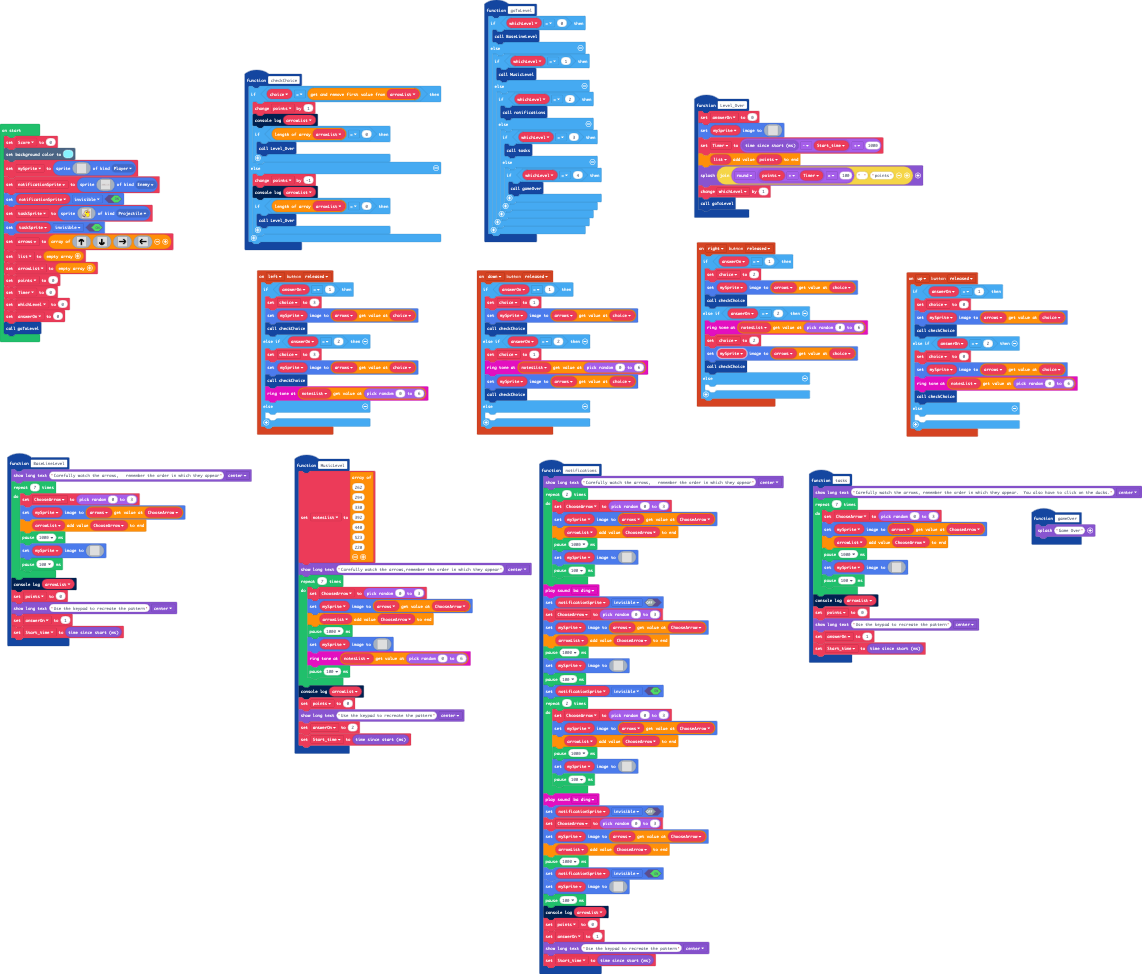
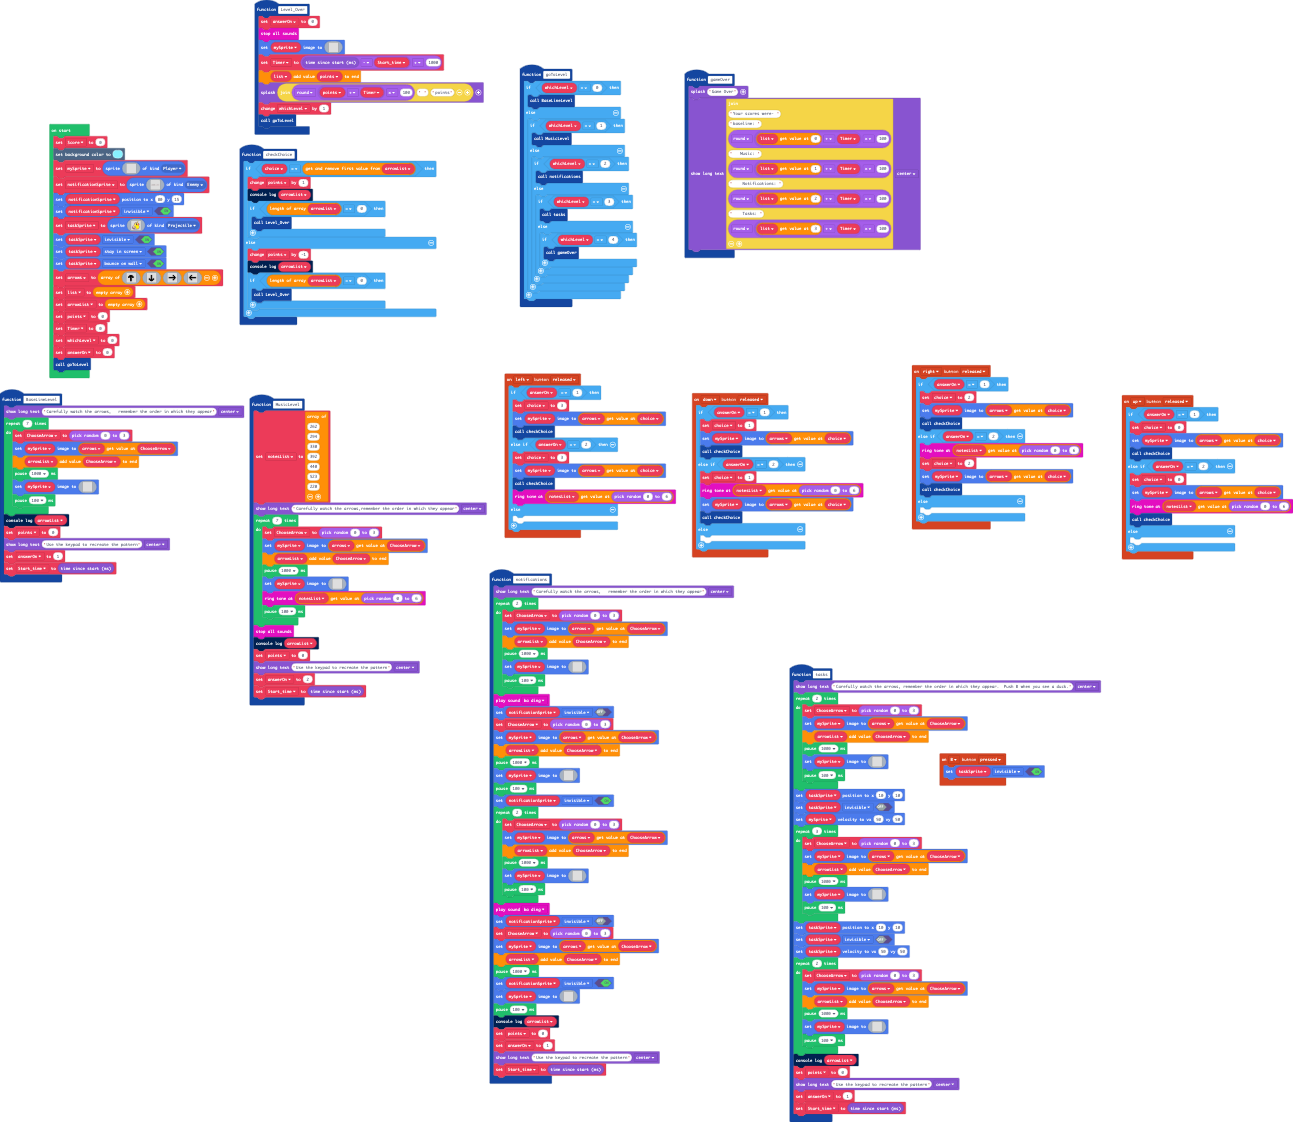
maybe done

diff --git a/main.ts b/main.ts
@@ -27,6 +27,9 @@ function checkChoice () {
         }
     }
 }
+controller.B.onEvent(ControllerButtonEvent.Pressed, function () {
+    taskSprite.setFlag(SpriteFlag.Invisible, true)
+})
 controller.left.onEvent(ControllerButtonEvent.Released, function () {
     if (answerOn == 1) {
         choice = 3
@@ -57,6 +60,7 @@ controller.down.onEvent(ControllerButtonEvent.Released, function () {
 })
 function Level_Over () {
     answerOn = 0
+    music.stopAllSounds()
     mySprite.setImage(img`
 . . . . . . . . . . . . . . . . 
 . . . . . . . . . . . . . . . . 
@@ -83,6 +87,7 @@ function Level_Over () {
 }
 function gameOver () {
     game.splash("Game Over")
+    game.showLongText("Your scores were- " + "baseline: " + Math.round(list[0] / Timer * 100) + "   Music: " + Math.round(list[1] / Timer * 100) + "    Notifications: " + Math.round(list[2] / Timer * 100) + "    Tasks: " + Math.round(list[3] / Timer * 100), DialogLayout.Center)
 }
 controller.right.onEvent(ControllerButtonEvent.Released, function () {
     if (answerOn == 1) {
@@ -99,8 +104,64 @@ controller.right.onEvent(ControllerButtonEvent.Released, function () {
     }
 })
 function tasks () {
-    game.showLongText("Carefully watch the arrows, remember the order in which they appear.  You also have to click on the ducks.", DialogLayout.Center)
-    for (let index = 0; index < 7; index++) {
+    game.showLongText("Carefully watch the arrows, remember the order in which they appear.  Push B when you see a duck.", DialogLayout.Center)
+    for (let index = 0; index < 2; index++) {
+        ChooseArrow = Math.randomRange(0, 3)
+        mySprite.setImage(arrows[ChooseArrow])
+        arrowList.push(ChooseArrow)
+        pause(1000)
+        mySprite.setImage(img`
+. . . . . . . . . . . . . . . . 
+. . . . . . . . . . . . . . . . 
+. . . . . . . . . . . . . . . . 
+. . . . . . . . . . . . . . . . 
+. . . . . . . . . . . . . . . . 
+. . . . . . . . . . . . . . . . 
+. . . . . . . . . . . . . . . . 
+. . . . . . . . . . . . . . . . 
+. . . . . . . . . . . . . . . . 
+. . . . . . . . . . . . . . . . 
+. . . . . . . . . . . . . . . . 
+. . . . . . . . . . . . . . . . 
+. . . . . . . . . . . . . . . . 
+. . . . . . . . . . . . . . . . 
+. . . . . . . . . . . . . . . . 
+. . . . . . . . . . . . . . . . 
+`)
+        pause(100)
+    }
+    taskSprite.setPosition(10, 10)
+    taskSprite.setFlag(SpriteFlag.Invisible, false)
+    mySprite.setVelocity(50, 50)
+    for (let index = 0; index < 3; index++) {
+        ChooseArrow = Math.randomRange(0, 3)
+        mySprite.setImage(arrows[ChooseArrow])
+        arrowList.push(ChooseArrow)
+        pause(1000)
+        mySprite.setImage(img`
+. . . . . . . . . . . . . . . . 
+. . . . . . . . . . . . . . . . 
+. . . . . . . . . . . . . . . . 
+. . . . . . . . . . . . . . . . 
+. . . . . . . . . . . . . . . . 
+. . . . . . . . . . . . . . . . 
+. . . . . . . . . . . . . . . . 
+. . . . . . . . . . . . . . . . 
+. . . . . . . . . . . . . . . . 
+. . . . . . . . . . . . . . . . 
+. . . . . . . . . . . . . . . . 
+. . . . . . . . . . . . . . . . 
+. . . . . . . . . . . . . . . . 
+. . . . . . . . . . . . . . . . 
+. . . . . . . . . . . . . . . . 
+. . . . . . . . . . . . . . . . 
+`)
+        pause(100)
+    }
+    taskSprite.setPosition(10, 10)
+    taskSprite.setFlag(SpriteFlag.Invisible, false)
+    taskSprite.setVelocity(50, 50)
+    for (let index = 0; index < 2; index++) {
         ChooseArrow = Math.randomRange(0, 3)
         mySprite.setImage(arrows[ChooseArrow])
         arrowList.push(ChooseArrow)
@@ -181,6 +242,7 @@ function MusicLevel () {
         music.ringTone(notesList[Math.randomRange(0, 6)])
         pause(100)
     }
+    music.stopAllSounds()
     console.log(arrowList)
     points = 0
     game.showLongText("Use the keypad to recreate the pattern", DialogLayout.Center)
@@ -341,6 +403,7 @@ let points = 0
 let arrowList: number[] = []
 let list: number[] = []
 let arrows: Image[] = []
+let taskSprite: Sprite = null
 let notificationSprite: Sprite = null
 let mySprite: Sprite = null
 let Score = 0
@@ -395,8 +458,9 @@ notificationSprite = sprites.create(img`
 . f f f f f f f f f f f f f f f f f f f f f f f f f f f f f f f f f f f f f f f f f f f f f f f f f f f f f f f f f f f f f f f f f f f f f f f f f f f f f f f f f f f f f f f f f f f f f f f f f f f f f f f f f f f f f f f f f f f f f f f f f f f f f f f f f f f f f f f f f f f f f f f f f f f f f f f f f f f f f f . 
 . . . . . . . . . . . . . . . . . . . . . . . . . . . . . . . . . . . . . . . . . . . . . . . . . . . . . . . . . . . . . . . . . . . . . . . . . . . . . . . . . . . . . . . . . . . . . . . . . . . . . . . . . . . . . . . . . . . . . . . . . . . . . . . . . . . . . . . . . . . . . . . . . . . . . . . . . . . . . . . . 
 `, SpriteKind.Enemy)
+notificationSprite.setPosition(80, 15)
 notificationSprite.setFlag(SpriteFlag.Invisible, true)
-let taskSprite = sprites.create(img`
+taskSprite = sprites.create(img`
 . . . . . . . . . . b 5 b . . . 
 . . . . . . . . . b 5 b . . . . 
 . . . . . . b b b b b b . . . . 
@@ -415,6 +479,8 @@ b b c c c d d d d 5 5 5 b b . .
 . . . c c c c c c c c b b . . . 
 `, SpriteKind.Projectile)
 taskSprite.setFlag(SpriteFlag.Invisible, true)
+taskSprite.setFlag(SpriteFlag.StayInScreen, true)
+taskSprite.setFlag(SpriteFlag.BounceOnWall, true)
 arrows = [img`
 . . . . . . . . . . . . . . . . 
 . . . . . . . . . . . . . . . . 
